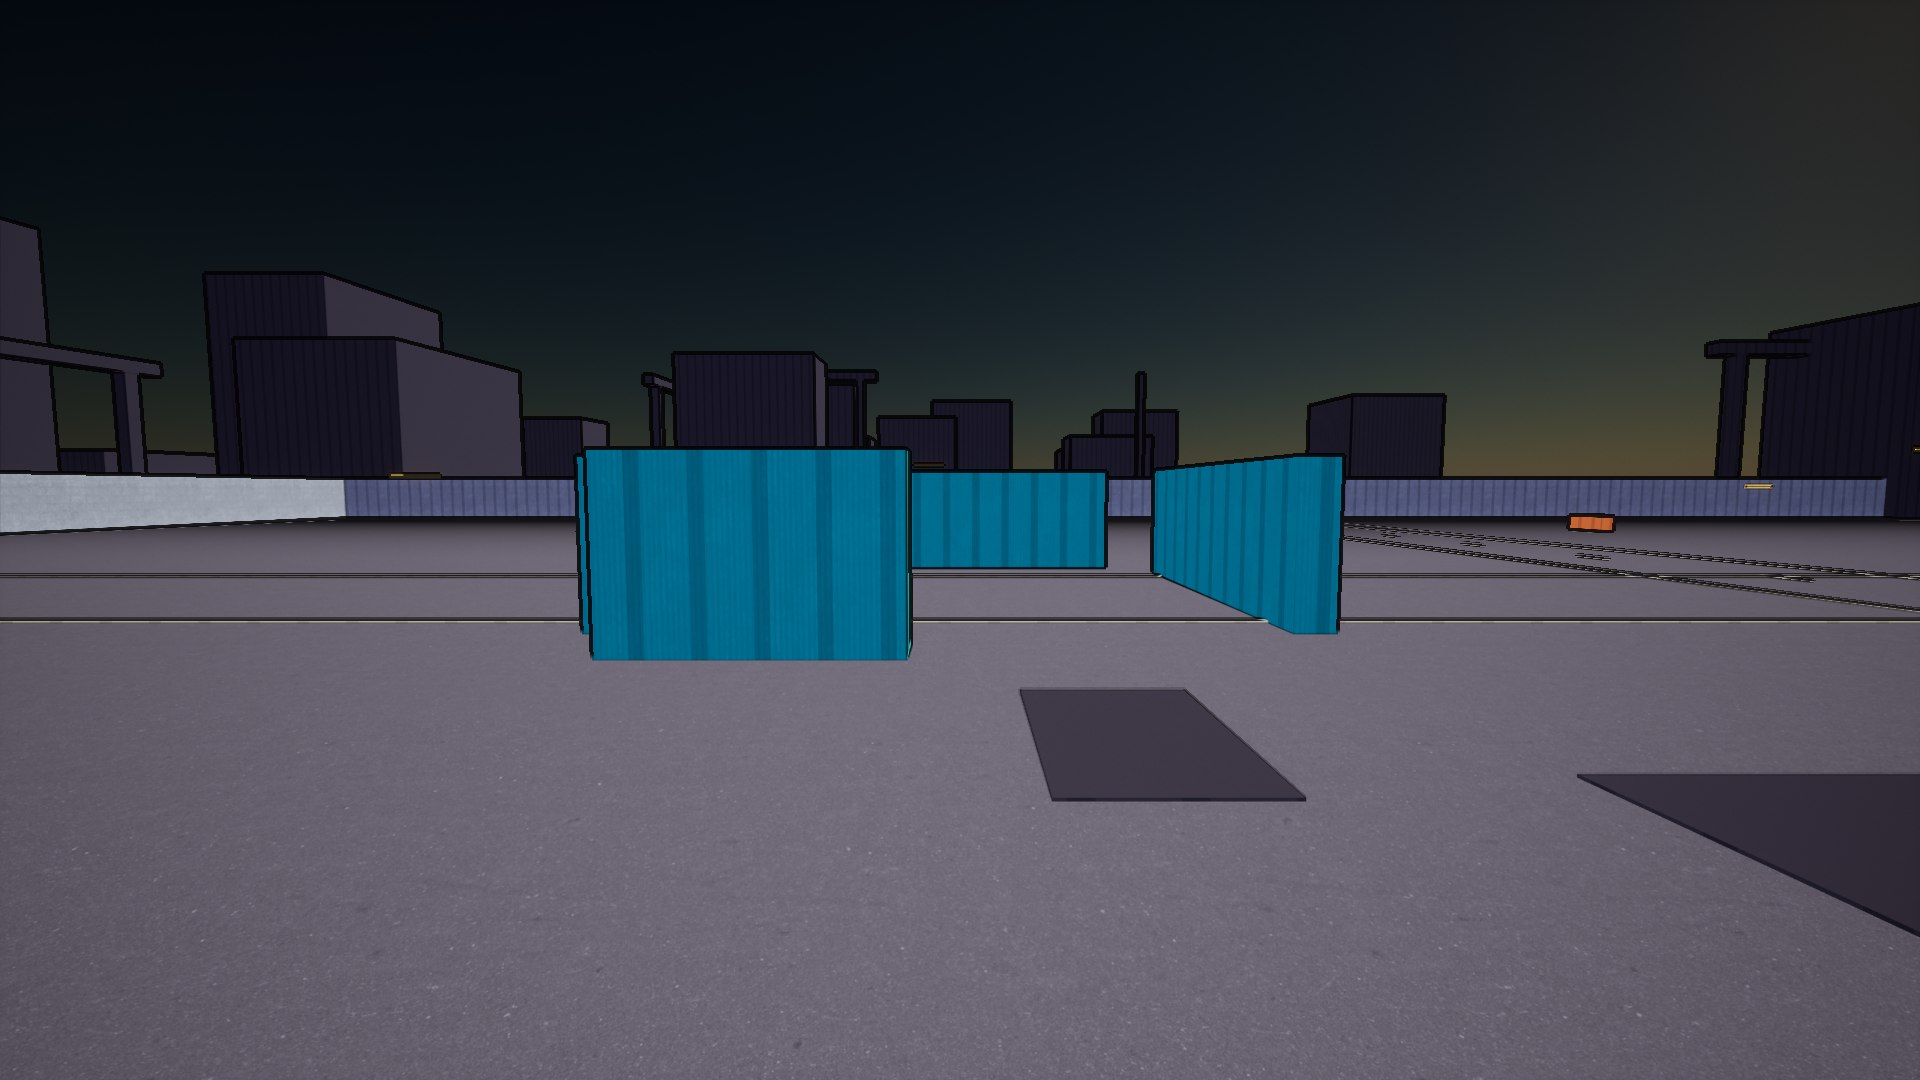
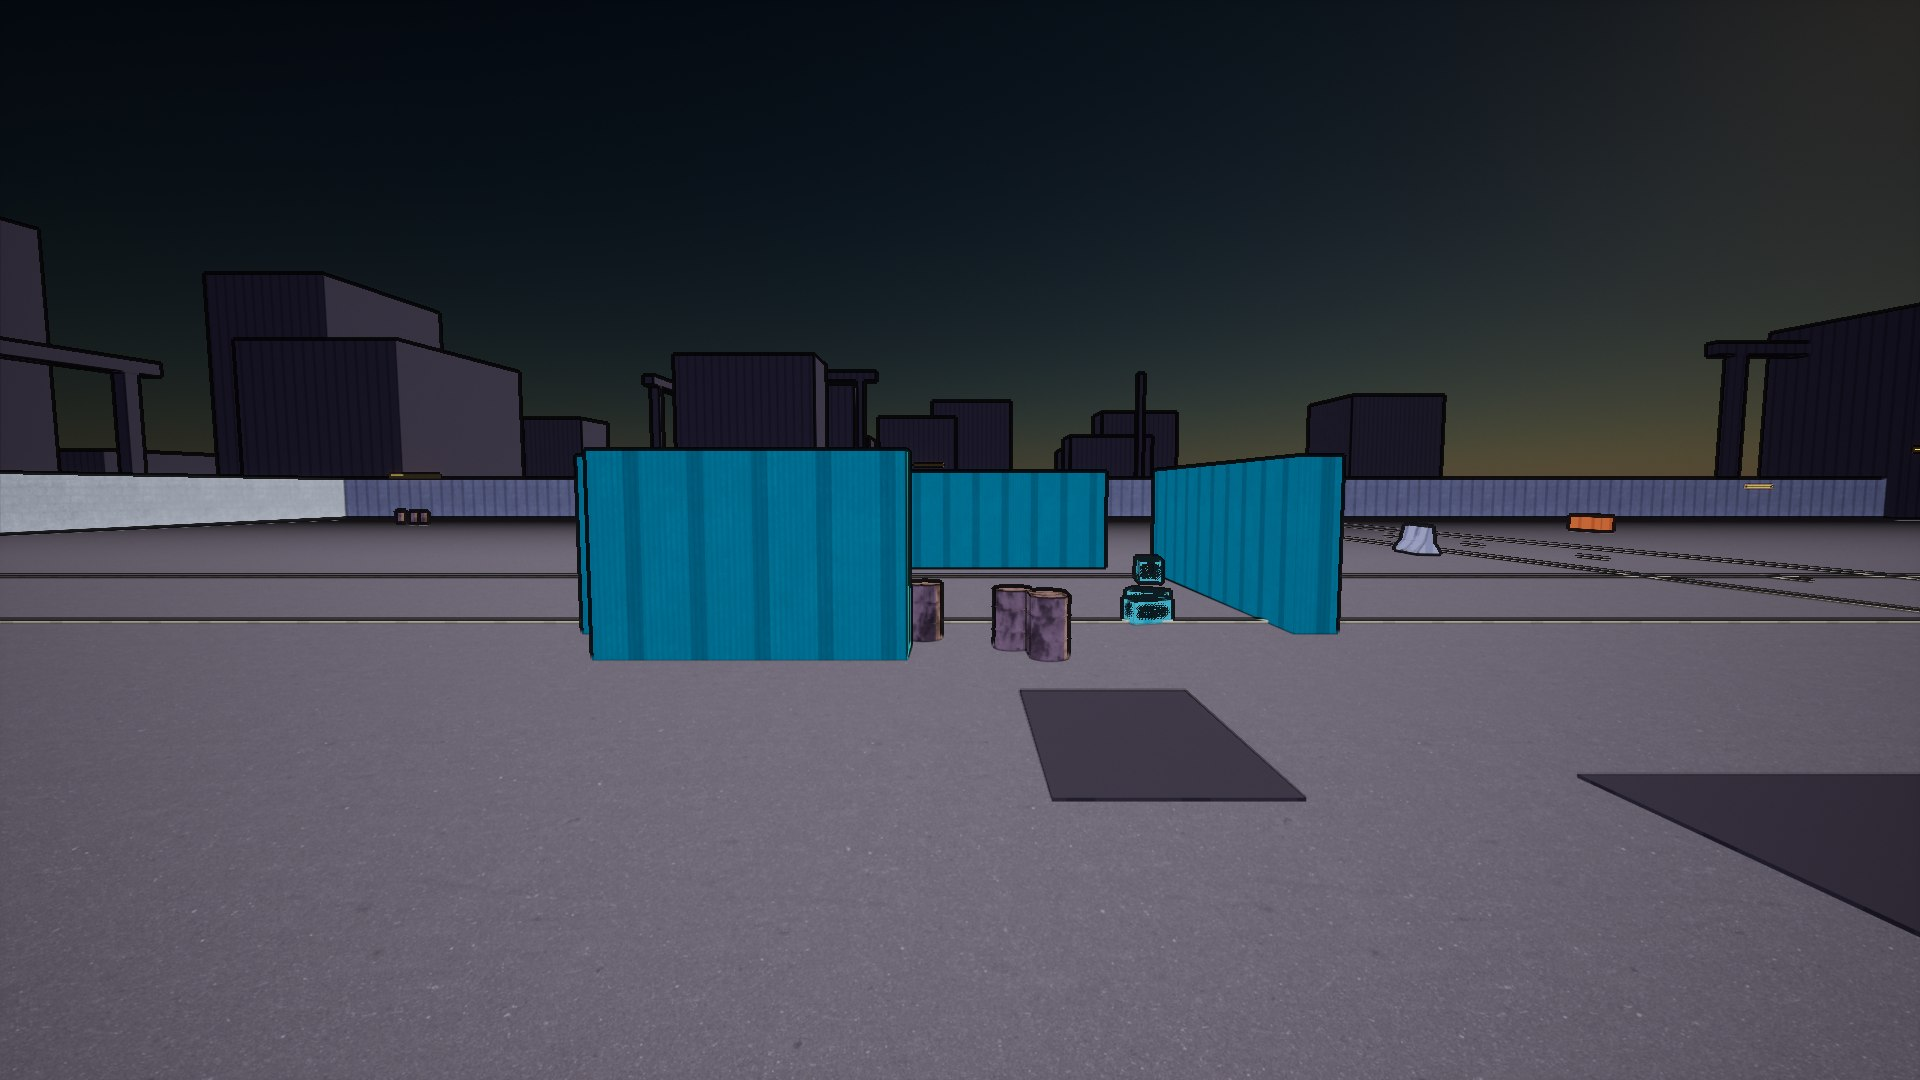
[Repo] Record loop iteration 4 (props, tools, character-route decision)

Changed region(s): [[0.4688, 0.5194, 0.625, 0.6111], [0.7188, 0.4889, 0.7812, 0.5194], [0.1875, 0.4583, 0.2188, 0.4889]]

diff --git a/progress_data.js b/progress_data.js
@@ -3,7 +3,7 @@
 // en worden door Tools/update_progress.ps1 gegenereerd — daar blijf je vanaf.
 // Regels: percentages zijn eerlijk (liever te laag dan gejokt); geen HTML hier, alleen data.
 window.PROGRESS_DATA = {
-  bijgewerkt: "2026-07-22 22:10",
+  bijgewerkt: "2026-07-23 09:00",
   hero: { label: "Hele game", pct: 8 },
   playtestChip: "PIE-playtest door eigenaar: OPEN (gate-vraag 13.2)",
 
@@ -48,7 +48,7 @@ window.PROGRESS_DATA = {
         { naam: "Belichting / mood", pct: 85, notitie: "SM6-pad live: volumetric smog + zon-schaduwen + skylight + film grain (15.5-revisie); lit-toon-migratie (echte Lumen-GI) is de volgende milestone." },
         { naam: "Kleurenpalet & blok-dressing", pct: 60, notitie: "Palet + skyline-ring + EERSTE ECHTE TEXTURES (CC0 Poly Haven, world-aligned door de toon-pijplijn; gain genormaliseerd op gemeten lineair gemiddelde)." },
         { naam: "Gebouwen (echte kits)", pct: 10 },
-        { naam: "Straten / props / decals", pct: 5 },
+        { naam: "Straten / props / decals", pct: 20, notitie: "EERSTE ECHTE MESHES: CC0-props (vaten/wegbarrières/kratten) door de toon-pijplijn (mesh-UV, luminantie-only), no-collision dressing." },
         { naam: "Bomen / vegetatie", pct: 0, notitie: "Eerste vegetatie Phase 3 (Sylvaris)." },
         { naam: "Characters / MetaHumans", pct: 0, notitie: "Phase 2→3." },
         { naam: "Weer & dag/nacht", pct: 0 },
@@ -93,6 +93,13 @@ window.PROGRESS_DATA = {
   screenshotNoot: "Sterke PC (GTX 1080 Ti, SM6) — texture-ronde: CC0-albedo's (asfalt/beton/metaalplaat/golfplaat) door de toon-pijplijn, exposure-neutraal genormaliseerd; skyline + inktlijnen + schemer-mood intact.",
 
   changelog: [
+    { datum: "Sessie 2026-07-23 (loop-iteratie 4 — eerste echte props + tools)", punten: [
+      "EERSTE ECHTE 3D-MESHES in het district: CC0-props van Poly Haven (Barrel_01, concrete_road_barrier, plastic_crate_03) — FBX + diffuse gedownload via API, geïmporteerd (Tools/import_polyhaven_props.py), geplaatst als vaten-clusters, checkpoint-barrières en krat-stapels (no-collision dressing, deterministisch).",
+      "Toon-materiaal kreeg een mesh-UV-pad (UVMode) zodat geïmporteerde props hun eigen UVs gebruiken; alle material-slots krijgen de toon-MID; tonemapper-les: bijna-neutrale heldere paletten worden bleek — vat-palet naar donker verzadigd roest.",
+      "Tools geïnstalleerd met owner-akkoord: Pillow 12.3 ✓ (texture/decal-generatie), ffmpeg ✓ (audio-pijplijn); Blender staat in de UAC-goedkeurings-wachtrij (geen blokker: UE heeft glTF-import en Quaternius levert FBX).",
+      "Eigenaar heeft fab.com-login gezet; wachtrij voor eigenaar: Launcher-login + pack-shortlist aanklikken, ElevenLabs Music/SFX-scopes.",
+      "Groene bar: build ✓, 31/31 ✓, validatie 0 ✓, catalog 19/19 ✓."
+    ]},
     { datum: "Sessie 2026-07-23 (loop-iteratie 3 — lit-toon-experiment)", punten: [
       "Lit-toon-migratie gebouwd als veilig A/B-experiment: tweede master M_EclipseToonLit (DefaultLit — cel-banden als BaseColor, echt VSM/Lumen-licht erbovenop), alleen actief met -EclipseLitToon op SM6; Glow-strips blijven altijd unlit-emissive; default onveranderd.",
       "A/B-verdict (eerlijk): bij de schemerzon op command-afstand vrijwel niet te onderscheiden van unlit (auto-exposure normaliseert) — beslissing wacht op interieur/dag-scènes waar GI/schaduw er echt toe doen; unlit blijft de gelockte default.",

diff --git a/HANDOFF.md b/HANDOFF.md
@@ -158,7 +158,9 @@ The clean mechanism is **git**. The bible + code are already **one repo** (§2),
 
 **Loop-iteratie 3:** lit-toon-migratie gebouwd als vlag-gated A/B (`M_EclipseToonLit`, DefaultLit, alleen via `-EclipseLitToon` op SM6; Glow blijft unlit). A/B-verdict: bij schemer op command-afstand ~niet te onderscheiden — unlit blijft default; het lit-pad wint pas bij interieurs/dag/characters. Alles groen.
 
-**Bekende volgende zwakste punten (15.8-lijst):** (1) **CC0 3D-props** (vaten/pallets/containers/hekwerk via Poly Haven-API) als eerste echte mesh-vervanging van cover-blokken — volledig autonoom mogelijk; (2) particles (vonken/as/embers, Kessara-smog); (3) district-verticaliteit (03.3 layer-cake: bruggen/platforms binnen de perimeter); (4) lit-toon herbeoordelen zodra er een interieur/dag-scène is.
+**Loop-iteratie 4:** eerste echte 3D-meshes geland — CC0-props (vat/wegbarrière/krat, Poly Haven-API) door de toon-pijplijn via een nieuw mesh-UV-pad (UVMode-param); alle slots MID; les: bijna-neutrale ×10-paletten tonemappen naar bleek → vat op donker roest. Tools: Pillow ✓, ffmpeg ✓, Blender in UAC-wachtrij (geen blokker). Eigenaar: fab.com-login ✓; nog open: Launcher-login + shortlist-kliks, ElevenLabs-scopes. Character-route gekozen per Bible: **CC0-stylized (Quaternius) nu** voor squad/vijand-placeholders (past bij gelockte 15.5 + volledig autonoom), **MetaHuman-evaluatie bij Phase 2→3** voor hero-companions; Mixamo-animaties = klik-lijst voor de eigenaar zodra de animatie-pass start (geen browser-besturing in deze omgeving), met Quaternius' CC0-animatiebibliotheek als autonoom alternatief.
+
+**Bekende volgende zwakste punten (15.8-lijst):** (1) Pillow-decals: propaganda/waarschuwingsborden genereren + als deco-planes plaatsen (15.5 occupation story); (2) Quaternius-characterpack binnenhalen (FBX) als squad/vijand-placeholder; (3) particles (vonken/as/embers); (4) district-verticaliteit (03.3); (5) lit-toon herbeoordelen bij interieur/dag-scène.
 
 **Owner-afspraken die blijven gelden (elke sessie):** geen installaties/downloads/acceptatie-prompts zonder expliciet akkoord vooraf (eerst uitleggen waarvoor); bouwen met `-NoUba`; PROGRESS.html nooit bewerken (data in `progress_data.js`; `progress_auto.js` is van de watcher). `gh` is hier NIET geïnstalleerd — push werkt via de vault-token in Windows Credential Manager (username gepind in repo-config).
 
